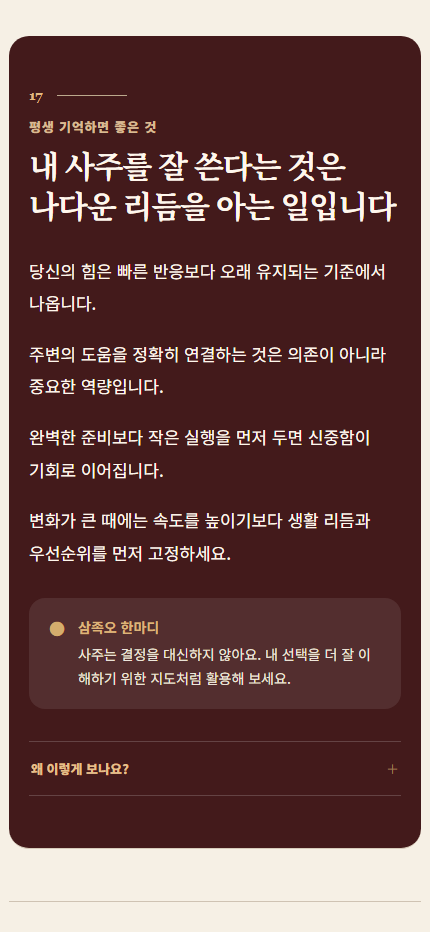
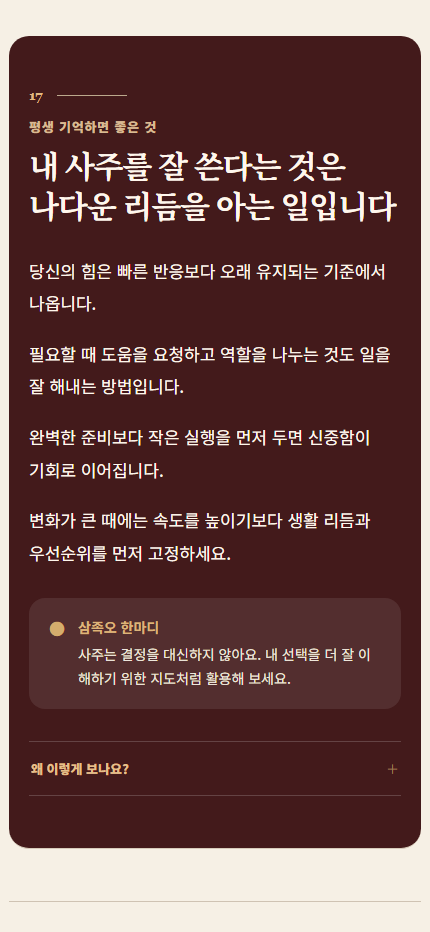
fix: make strength guidance sound natural

Changed region(s): [[0.0605, 0.3734, 0.907, 0.4356]]

diff --git a/src/app/dev/lifetime-report/page.tsx b/src/app/dev/lifetime-report/page.tsx
@@ -20,7 +20,7 @@ const previewCopy: Record<string, { headline:string; paragraphs:string[] }> = {
   overview:{headline:"기준을 세우고 긴 호흡으로 나만의 결과를 만드는 사람",paragraphs:["처음에는 주변을 충분히 살피지만, 기준이 선 뒤에는 쉽게 흔들리지 않습니다.","빠른 성취보다 시간이 지나도 남는 결과를 만들 때 만족감이 큽니다."]},
   personality:{headline:"차분히 살핀 뒤에는 자기 방식으로 끝까지 갑니다",paragraphs:["무엇을 결정할 때 분위기에 바로 휩쓸리기보다, 정보와 맥락을 충분히 모은 뒤 내 기준을 세우는 편입니다. 결론까지 시간이 걸려 보여도 한번 방향을 정하면 꾸준히 이어갑니다.","겉으로는 차분하고 유연해 보여도 속에는 분명한 선이 있습니다. 가까운 사람은 부드러움보다 단단한 고집을 먼저 느낄 때도 있습니다.","반복되는 행동 패턴은 ‘충분히 이해한 뒤 움직이기’입니다. 낯선 환경에서는 관찰자로 시작하고, 익숙해진 뒤에는 일의 순서와 기준을 정리하는 역할을 맡기 쉽습니다.","장점은 신중함과 지속력입니다. 작은 차이를 알아차리고, 한 번 시작한 일을 현실적인 결과로 연결하는 힘이 있습니다.","다만 장점이 과해지면 준비가 길어지고 이미 세운 기준을 바꾸기 어려워질 수 있습니다. 완벽한 확신보다 작은 시험을 먼저 해보는 방식이 균형을 돕습니다."]},
   "five-elements":{headline:"다섯 기운은 속도와 표현 방식을 서로 다르게 만듭니다",paragraphs:["쇠와 나무의 비중이 비교적 선명해, 기준을 세우는 힘과 성장하려는 힘이 함께 드러납니다.","물의 기운은 생각을 이어 주고 상황에 맞게 방향을 바꾸는 여유를 보탭니다.","불의 비중이 낮은 구성은 표현력이 없다는 뜻이 아닙니다. 마음속 결론을 바깥으로 빠르게 드러내는 일에 의식적인 준비가 필요하다는 의미에 가깝습니다.","다섯 비율은 우열표가 아니라 내가 어떤 방식에 익숙하고 어떤 방식을 의식적으로 꺼내 써야 하는지 보여주는 구성표입니다."]},
-  strength:{headline:"혼자 밀어붙이기보다 좋은 환경을 연결할 때 힘이 납니다",paragraphs:["중심 힘은 균형에 가깝지만 주변 조건의 영향을 조금 더 섬세하게 받는 편입니다.","명확한 역할과 믿을 만한 사람이 있을 때 집중력이 안정되고, 혼자 모든 판단을 떠안을 때는 생각이 쉽게 많아질 수 있습니다.","도움을 받는 것은 약함이 아니라 자원을 정확히 연결하는 능력입니다. 시작 전에 필요한 정보와 협력 범위를 정하면 힘의 낭비가 줄어듭니다.","일정한 수면, 식사, 작업 순서처럼 예측 가능한 리듬이 중심을 오래 유지하는 데 도움을 줍니다."]},
+  strength:{headline:"혼자 버티기보다 필요한 도움을 받을 때 더 수월하게 해냅니다",paragraphs:["중심 힘은 균형에 가깝지만 주변 조건의 영향을 조금 더 섬세하게 받는 편입니다.","맡은 역할이 분명하고 믿을 만한 사람이 곁에 있으면 집중하기가 한결 수월합니다. 반대로 모든 판단을 혼자 떠안으면 생각이 많아지고 시작이 늦어질 수 있어요.","도움을 받는다고 해서 내 힘이 약한 것은 아닙니다. 시작하기 전에 필요한 정보가 무엇인지, 누구와 역할을 나눌지 정해 두면 불필요하게 힘을 쓰는 일이 줄어듭니다.","일정한 수면, 식사, 작업 순서처럼 예측 가능한 리듬도 힘을 오래 유지하는 데 도움이 됩니다."]},
   "strengths-and-cautions":{headline:"섬세함과 지속력은 강점이고, 과한 자기검열은 부담입니다",paragraphs:["작은 어긋남을 빠르게 발견하고 결과의 완성도를 높이는 데 강점이 있습니다.","급하게 앞서가기보다 필요한 순서를 세워 꾸준히 쌓는 방식이 신뢰로 이어집니다.","반대로 모든 조건이 갖춰져야 시작하려 하면 기회를 늦게 잡을 수 있습니다.","책임을 오래 붙들고 혼자 정리하려는 습관이 쌓이면 피로를 뒤늦게 알아차릴 수 있으니, 중간 점검과 역할 나누기가 중요합니다."]},
   "talent-and-work":{headline:"복잡한 것을 정리해 오래 쓸 수 있는 결과로 만드는 재능",paragraphs:["일할 때는 목표만 던져지는 것보다 이유와 기준을 이해할 때 실력이 빠르게 살아납니다. 흐트러진 정보에서 순서를 찾고, 반복 가능한 방식으로 정리하는 일에 강점이 있습니다.","조직에서는 역할과 책임이 분명할수록 안정적입니다. 동시에 세부 실행 방법에는 스스로 결정할 여지가 있어야 답답함이 줄어듭니다.","혼자 하는 일에서도 방향을 점검해 줄 동료나 고객의 피드백이 있으면 완성도가 높아집니다. 완전한 독립보다 기준 있는 자율에 가깝습니다.","설명 없이 자주 바뀌는 지시, 속도만 강조하는 환경, 결과보다 보여주기를 앞세우는 분위기에서는 에너지가 빠르게 소모될 수 있습니다.","재능을 잘 쓰려면 분석과 정리를 실제 산출물로 끝내는 마감 장치를 두세요. 기록, 편집, 기획, 운영처럼 생각을 구조로 바꾸는 역할이 잘 맞습니다."]},
   "money-style":{headline:"돈은 크게 흔들기보다 기준을 세워 오래 관리하는 편",paragraphs:["돈을 버는 방식에서는 한 번의 큰 승부보다 실력과 신뢰가 반복 수입으로 이어지는 구조가 편안합니다. 내가 이해할 수 있는 일에서 현실적인 성과를 쌓을 때 안정감이 생깁니다.","관리할 때는 목적이 분명한 지출에는 과감하지만, 기준 없는 소비에는 신중합니다. 숫자를 자주 확인하기보다 용도별 경계를 정해 두는 방식이 잘 맞습니다.","확장과 안정 사이에서는 기본적으로 안전판을 먼저 찾습니다. 다만 확신이 생긴 뒤에는 예상보다 범위를 크게 넓힐 수 있어, 결정 전 한도를 정하는 것이 중요합니다.","반복하기 쉬운 습관은 오래 고민한 뒤 한 번에 지출하거나, 책임감을 이유로 다른 사람의 몫까지 떠안는 것입니다.","강점은 축적과 관리이고 주의점은 늦어진 판단입니다. 작은 규모로 먼저 시험하고 결과를 기록하면 안정성을 지키면서 기회를 놓치지 않을 수 있습니다."]},
@@ -33,7 +33,7 @@ const previewCopy: Record<string, { headline:string; paragraphs:string[] }> = {
   "lifetime-flow":{headline:"평생의 흐름은 준비와 확장이 교대로 이어집니다",paragraphs:["초반에는 경험을 모으고 기준을 만드는 시간이 중요합니다.","중반으로 갈수록 쌓은 전문성을 바깥의 역할과 성과로 연결하는 질문이 커집니다.","후반에는 직접 해내는 일뿐 아니라 축적한 기준을 전하고 관계를 정돈하는 힘이 중요해집니다.","각 시기는 고정된 사건이 아니라 어떤 선택이 자연스럽게 느껴지는지 보여 주는 배경입니다."]},
   daeun:{headline:"열 개의 큰 구간마다 도움의 방향과 변화의 크기가 달라집니다",paragraphs:["앞선 구간에서 만든 기반은 다음 구간의 선택 재료가 됩니다. 한 시기만 떼어 좋고 나쁨으로 판단하기보다 이어지는 방향을 함께 보세요.","도움 흐름이 높을 때는 자원을 연결하기 쉽고, 변화 움직임이 높을 때는 역할과 환경이 활발하게 바뀔 수 있습니다.","도움이 많아도 변화는 잔잔할 수 있고, 변화가 커도 반드시 부담스러운 것은 아닙니다.","현재 선택한 구간의 한글 간지와 기간을 먼저 읽고, 전문 한자는 보조 정보로 확인하세요."]},
   "life-phases":{headline:"초반에는 기반, 중반에는 선택, 후반에는 전수가 중심이 됩니다",paragraphs:["인생 초반에는 다양한 경험을 통해 내 기준을 만드는 일이 중요합니다.","중반에는 무엇을 계속하고 무엇을 내려놓을지 선택하는 힘이 커집니다.","후반에는 축적한 지식과 관계를 정리해 다른 사람과 나누는 방식이 의미를 만듭니다."]},
-  takeaways:{headline:"꾸준함을 지키되, 확신을 기다리느라 시작을 늦추지 마세요",paragraphs:["당신의 힘은 빠른 반응보다 오래 유지되는 기준에서 나옵니다.","주변의 도움을 정확히 연결하는 것은 의존이 아니라 중요한 역량입니다.","완벽한 준비보다 작은 실행을 먼저 두면 신중함이 기회로 이어집니다.","변화가 큰 때에는 속도를 높이기보다 생활 리듬과 우선순위를 먼저 고정하세요."]},
+  takeaways:{headline:"꾸준함을 지키되, 확신을 기다리느라 시작을 늦추지 마세요",paragraphs:["당신의 힘은 빠른 반응보다 오래 유지되는 기준에서 나옵니다.","필요할 때 도움을 요청하고 역할을 나누는 것도 일을 잘 해내는 방법입니다.","완벽한 준비보다 작은 실행을 먼저 두면 신중함이 기회로 이어집니다.","변화가 큰 때에는 속도를 높이기보다 생활 리듬과 우선순위를 먼저 고정하세요."]},
   professional:{headline:"쉬운 해석 뒤에는 같은 계산 근거가 놓여 있습니다",paragraphs:["이곳에서는 앞 장에서 사용한 원국, 오행 분포, 강약, 구조와 도움 기운을 전문 명칭과 함께 확인할 수 있습니다.","전문용어는 새로운 판단을 추가하는 것이 아니라 이미 본 고객용 설명의 계산 출처를 보여 줍니다."]},
 };
 const interpretation: InterpretationUiState = { status:"completed", ruleVersion:"ai-interpretation-v1", promptVersion:"interpretation-prompt-v1", groundingVersion:"interpretation-grounding-v1", analysisHash:"synthetic-preview", cacheKey:"synthetic-preview", metadata:{provider:"synthetic",model:"layout-preview",repaired:false}, report:{ status:"completed",reportType:"LIFETIME_GENERAL",headline:"기준을 세우고 긴 호흡으로 나만의 결과를 만드는 사람",summary:"서두르기보다 충분히 살피고, 한번 정한 방향은 꾸준히 이어가는 힘이 돋보입니다.",sections:LIFETIME_REPORT_V2.sections.map(section=>{const copy=previewCopy[section.id];return {id:section.id,chapterNumber:section.chapterNumber,title:section.title,headline:copy.headline,lead:"타고난 구성과 평생의 흐름을 생활 속 언어로 읽어봅니다.",body:copy.paragraphs.join("\n\n"),paragraphs:copy.paragraphs,keyPoints:[copy.paragraphs[0]],evidenceIds:["SYNTHETIC:EVIDENCE"],mascotComment:"내 속도와 리듬을 기억하세요."};}),highlights:["기준을 세우고 꾸준히 이어가는 힘이 있습니다."],cautions:["강한 책임감이 부담으로 쌓이지 않도록 회복 시간을 챙기세요."],timeline:[],disclaimer:"전통 명리의 경향 해석이며 확정적 사건 예측이 아닙니다." } };

diff --git a/src/components/LifetimeReport.tsx b/src/components/LifetimeReport.tsx
@@ -18,7 +18,7 @@ const RELATIONSHIP_DETAIL: Record<RelationshipStatus, string[]> = {
   DATING:["연애 중에는 애정의 크기보다 서로 다른 표현 방식을 이해하는 일이 중요합니다.","갈등이 생기면 생각을 정리한 뒤 말하려는 편이라, 침묵의 이유와 필요한 시간을 먼저 알려 주는 것이 좋습니다.","장기적인 관계로 갈수록 약속과 생활 리듬, 현실적인 역할 분담이 신뢰의 핵심이 됩니다.","정답을 정해 설득하기보다 상대의 관점을 확인한 뒤 함께 기준을 만드는 대화가 관계를 오래 지켜 줍니다."],
   MARRIED:["기혼 관계에서는 생활의 안정과 맡은 역할을 성실하게 지키는 모습이 먼저 드러납니다.","가족의 필요를 미리 살피는 장점이 있지만, 책임을 혼자 떠안으면 서운함이 늦게 쌓일 수 있습니다.","배우자와는 감정만 확인하기보다 일정·가사·재정처럼 현실적인 영역을 함께 조율할 때 관계가 편안해집니다.","오래 함께할수록 익숙함 속에서도 각자의 회복 시간과 새로운 대화 주제를 남겨 두는 것이 중요합니다."],
 };
-const STRENGTH_COPY: Record<string, string> = { 극약: "회복과 보충을 먼저 챙길 때 힘이 납니다.", 태약: "주변 자원과 좋은 환경을 활용할 때 힘이 납니다.", 신약: "도움을 연결하고 리듬을 지킬 때 강점이 살아납니다.", 중화신약: "균형에 가깝지만 주변의 도움을 함께 쓸 때 편안합니다.", 중화신강: "균형에 가깝고 스스로 움직이는 힘이 조금 더 분명합니다.", 신강: "스스로 정하고 밀고 가는 힘이 분명합니다.", 태강: "강한 추진력을 조절해서 쓰는 것이 중요합니다.", 극왕: "집중된 힘을 유연하게 나누어 쓰는 것이 중요합니다." };
+const STRENGTH_COPY: Record<string, string> = { 극약: "충분히 쉬고 기운을 보충한 뒤 움직이는 편이 좋습니다.", 태약: "혼자 버티기보다 필요한 도움을 받을 때 일을 더 수월하게 풀어갑니다.", 신약: "좋은 환경과 믿을 만한 사람이 곁에 있을 때 제 실력을 더 잘 냅니다.", 중화신약: "균형에 가깝지만, 주변의 도움을 받으면 일을 조금 더 수월하게 해낼 수 있습니다.", 중화신강: "균형에 가깝고, 필요할 때는 스스로 방향을 정해 움직이는 힘도 있습니다.", 신강: "자기 판단으로 방향을 정하고 끝까지 밀고 가는 힘이 분명합니다.", 태강: "추진력은 충분합니다. 다만 속도를 조절할 때 결과가 더 안정적입니다.", 극왕: "한곳에 힘을 집중하는 데 능합니다. 필요할 때는 다른 사람과 역할을 나누는 연습도 중요합니다." };
 const ACTIVITY: Record<string, string> = { LOW: "잔잔함", MODERATE: "보통", HIGH: "큰 편", VERY_HIGH: "매우 큰 편" };
 const SUPPORT: Record<string, string> = { PRIMARY_FAVORABLE: "매우 우호적", STRONG_FAVORABLE: "우호적", FAVORABLE: "비교적 우호적", CONDITIONAL: "조건부", NEUTRAL: "중립적", CAUTION: "주의 필요", UNFAVORABLE: "부담이 있는 편", VERY_SUPPORTIVE: "매우 든든함", SUPPORTIVE: "든든함", MODERATELY_SUPPORTIVE: "다소 도움", MIXED: "여러 흐름이 섞임", LOW_SUPPORT: "도움이 적은 편", PRESSURED: "부담이 있는 편" };
 const STEM_COPY: Record<string, string> = { 甲: "갑목 · 큰 나무의 기운", 乙: "을목 · 유연한 풀과 덩굴의 기운", 丙: "병화 · 밝은 햇빛의 기운", 丁: "정화 · 오래 밝히는 불빛의 기운", 戊: "무토 · 든든한 산과 대지의 기운", 己: "기토 · 돌보고 가꾸는 흙의 기운", 庚: "경금 · 결단하고 다듬는 쇠의 기운", 辛: "신금 · 정교하게 빛나는 쇠의 기운", 壬: "임수 · 크게 흐르는 물의 기운", 癸: "계수 · 스며들고 적시는 물의 기운" };
@@ -45,7 +45,7 @@ export function LifetimeReport({ analysis, current, relationshipStatus, interpre
   const topElements = useful ? useful.elements.slice(0, 3) : [];
   return <div className="lifetimeReport"><Cover analysis={analysis} report={report} onRestart={onRestart} /><nav className="chapterNav" aria-label="평생사주 목차">{LIFETIME_REPORT_V2.sections.map((section) => <a key={section.id} href={`#chapter-${section.chapterNumber}`}>{section.chapterNumber}</a>)}</nav><main>
     <Chapter number="01" id="chapter-01" title="당신의 사주를 한눈에" headline={report?.headline ?? "내 삶의 큰 지도를 천천히 펼쳐봅니다"} lead={report?.summary ?? "타고난 기질과 평생의 큰 흐름을 계산 근거에 따라 한 권의 이야기로 정리했습니다."}><div className="overviewLines"><p><b>나를 대표하는 기운</b><span>{analysis.dayMaster ? STEM_COPY[analysis.dayMaster] : "분석 중"}</span></p><p><b>내가 힘을 쓰는 방식</b><span>{STRENGTH_COPY[analysis.strength.adjusted.level ?? ""] ?? "여러 힘의 균형을 살펴봅니다."}</span></p><p><b>삶에서 자주 만나는 질문</b><span>일과 관계에서 반복되는 선택의 기준을 중심으로 읽습니다.</span></p></div><EvidenceDetails><EvidenceRows rows={[["나를 대표하는 기운",analysis.dayMaster ?? "—"],["내가 힘을 쓰는 방식",`${analysis.strength.adjusted.score?.toFixed(1) ?? "—"} / 100`],["전문 기준",analysis.strength.adjusted.level ?? "—"]]}/></EvidenceDetails></Chapter>
-    <Chapter number="02" id="chapter-02" title="나는 어떤 사람인가" headline={chapterSection(report,"personality")?.headline ?? "기준을 세우고, 내 방식으로 결과를 만들어 갑니다"}><AiCopy report={report} id="personality" fallback={[STRENGTH_COPY[analysis.strength.adjusted.level ?? ""] ?? "내 힘과 주변의 도움을 함께 활용합니다.", "한 가지 모습으로 단정하기보다 여러 기운과 삶의 구조를 함께 읽어야 나다운 선택이 선명해집니다."]}/><CrowNote>익숙한 장점은 당연하게 느껴져 놓치기 쉬워요. 반복해서 잘해 온 방식을 먼저 살펴보세요.</CrowNote><EvidenceDetails><p>첫인상과 속마음, 결정 방식은 대표 기운·힘의 균형·타고난 삶의 구조를 함께 읽었습니다.</p></EvidenceDetails></Chapter>
+    <Chapter number="02" id="chapter-02" title="나는 어떤 사람인가" headline={chapterSection(report,"personality")?.headline ?? "기준을 세우고, 내 방식으로 결과를 만들어 갑니다"}><AiCopy report={report} id="personality" fallback={[STRENGTH_COPY[analysis.strength.adjusted.level ?? ""] ?? "혼자 해내는 힘과 주변의 도움을 상황에 맞게 나누어 씁니다.", "한 가지 모습으로 단정하기보다 여러 기운과 삶의 구조를 함께 읽어야 나다운 선택이 선명해집니다."]}/><CrowNote>익숙한 장점은 당연하게 느껴져 놓치기 쉬워요. 반복해서 잘해 온 방식을 먼저 살펴보세요.</CrowNote><EvidenceDetails><p>첫인상과 속마음, 결정 방식은 대표 기운·힘의 균형·타고난 삶의 구조를 함께 읽었습니다.</p></EvidenceDetails></Chapter>
     <Chapter number="03" id="chapter-03" title="내 안의 다섯 기운" headline="다섯 기운은 서로 다른 방식으로 나를 움직입니다"><AiCopy report={report} id="five-elements" fallback={["내 안에서 자주 쓰는 힘과 의식적으로 꺼내 써야 하는 힘을 먼저 이야기합니다. 어느 하나가 높다고 더 좋거나 낮다고 부족한 사람이라는 뜻은 아닙니다."]}/><div className="elementBars">{ELEMENTS.map((element) => <div key={element}><p><b>{customerElement(element)}</b><span>{ELEMENT_THEME[element]}</span><strong>{pct(adjusted?.[element].percentage)}</strong></p><i><span style={{ width: `${adjusted?.[element].percentage ?? 0}%` }} /></i></div>)}</div><EvidenceDetails><p>관계 작용을 반영해 정규화한 다섯 기운의 구성입니다. 합계가 100%인 구성비이며 성격 점수가 아닙니다.</p></EvidenceDetails></Chapter>
     <Chapter number="04" id="chapter-04" title="내가 힘을 쓰는 방식" headline={STRENGTH_COPY[analysis.strength.adjusted.level ?? ""] ?? "내 힘의 중심을 살펴봅니다"}><AiCopy report={report} id="strength" fallback={["혼자 계속 밀어붙이는 힘과 주변의 흐름을 연결하는 힘 사이에서, 어느 쪽이 더 자연스러운지를 살펴봅니다."]}/><div className="centerPower"><span>내가 힘을 쓰는 방식</span><strong>{score(analysis.strength.adjusted.score)}</strong><p>좋고 나쁨이 아니라, 스스로 밀고 가는 힘과 주변을 활용하는 힘의 상대적 위치입니다.</p></div><EvidenceDetails><EvidenceRows rows={[["엔진 지수",`${analysis.strength.adjusted.score?.toFixed(1) ?? "—"} / 100`],["전문 기준",analysis.strength.adjusted.level ?? "—"]]}/></EvidenceDetails></Chapter>
     <Chapter number="05" id="chapter-05" title="타고난 강점과 약점" headline="강점이 커질수록, 같은 자리에서 부담도 자랍니다"><AiCopy report={report} id="strengths-and-cautions" fallback={["같은 특징도 환경과 시기에 따라 장점과 부담으로 다르게 드러날 수 있습니다."]}/><div className="twoEditorial"><article><span>힘이 되는 순간</span><p>{report?.highlights[0] ?? "기준을 세우고 꾸준히 결과를 쌓는 힘을 활용할 수 있습니다."}</p></article><article><span>부담이 되는 순간</span><p>{report?.cautions[0] ?? "변화가 큰 시기에는 속도보다 회복과 우선순위를 먼저 확인하세요."}</p></article></div><EvidenceDetails><p>힘의 균형, 다섯 기운의 구성, 타고난 구조에서 반복되는 단서를 서로 대조했습니다.</p></EvidenceDetails></Chapter>

diff --git a/src/lib/saju/ai-interpretation/prompt.ts b/src/lib/saju/ai-interpretation/prompt.ts
@@ -20,6 +20,7 @@ export const LIFETIME_REPORT_SYSTEM_ADDENDUM=`LIFETIME_GENERAL은 lifetime-repor
 목·화·토·금·수 대신 나무·불·흙·쇠·물을 쓰되, 오행 하나를 성격 하나로 단정하지 마라.
 각 장은 기억에 남는 editorial headline과 3~7개의 자연스러운 prose paragraph를 우선하고, 실제 engine metric과 evidenceIds는 그 뒤의 보조 근거로 둔다.
 문단은 상담사가 옆에서 설명하듯 존댓말로 쓴다. 짧은 문장과 긴 문장을 섞고 모바일에서 한 문단이 벽처럼 보이지 않도록 2~5문장으로 끊는다.
+"도움을 함께 쓰다", "자원을 연결하다", "좋은 환경을 활용하다"처럼 뜻은 통하지만 사람이 잘 쓰지 않는 조합을 피하라. "주변의 도움을 받으면 일을 조금 더 수월하게 해낼 수 있습니다"처럼 바로 이해되는 생활 한국어로 쓴다.
 따뜻하되 과하게 감성적이거나 명언처럼 쓰지 말고, 타고난 리더·큰 부자·반드시 성공처럼 운명을 단정하지 마라.
 본문의 주어는 가능하면 당신, 마음, 사람, 일, 돈, 관계, 생활, 선택, 흐름으로 둔다. 사주에서는·오행에서는·격국에서는·용신에서는으로 문단을 시작하지 마라.
 "~로 해석됩니다", "~의 경향성을 보입니다", "~일 가능성이 있습니다", "~의 영향을 받습니다", "~라고 볼 수 있습니다", "~가 나타납니다", "종합적으로 보면", "따라서", "이러한 특성은", "이를 통해"를 반복하지 마라.

diff --git a/tests/customer-editorial-v3.spec.ts b/tests/customer-editorial-v3.spec.ts
@@ -29,10 +29,17 @@ describe("CUSTOMER_REPORT_EDITORIAL_REWRITE_V3", () => {
   });
 
   it("defines customer-language and anti-boilerplate contracts", () => {
-    for (const phrase of ["STORY FIRST, EVIDENCE SECOND", "상담사가 옆에서 설명하듯", "사주에서는", "~로 해석됩니다", "다른 사람에게 그대로 붙여도 되는"])
+    for (const phrase of ["STORY FIRST, EVIDENCE SECOND", "상담사가 옆에서 설명하듯", "사주에서는", "~로 해석됩니다", "다른 사람에게 그대로 붙여도 되는", "도움을 함께 쓰다", "바로 이해되는 생활 한국어"])
       expect(LIFETIME_REPORT_SYSTEM_ADDENDUM).toContain(phrase);
     for (const term of ["용신", "신강", "신약", "격국", "조후", "통관", "병약", "지장간"])
       expect(LIFETIME_REPORT_SYSTEM_ADDENDUM).toContain(term);
+  });
+
+  it("uses ordinary Korean for strength guidance", async () => {
+    const source = await reportSource();
+    expect(source).toContain("주변의 도움을 받으면 일을 조금 더 수월하게 해낼 수 있습니다");
+    expect(source).not.toContain("주변의 도움을 함께 쓸 때 편안합니다");
+    expect(source).not.toContain("도움을 연결하고 리듬을 지킬 때");
   });
 
   it("keeps relationship copy distinct without changing calculations", async () => {
